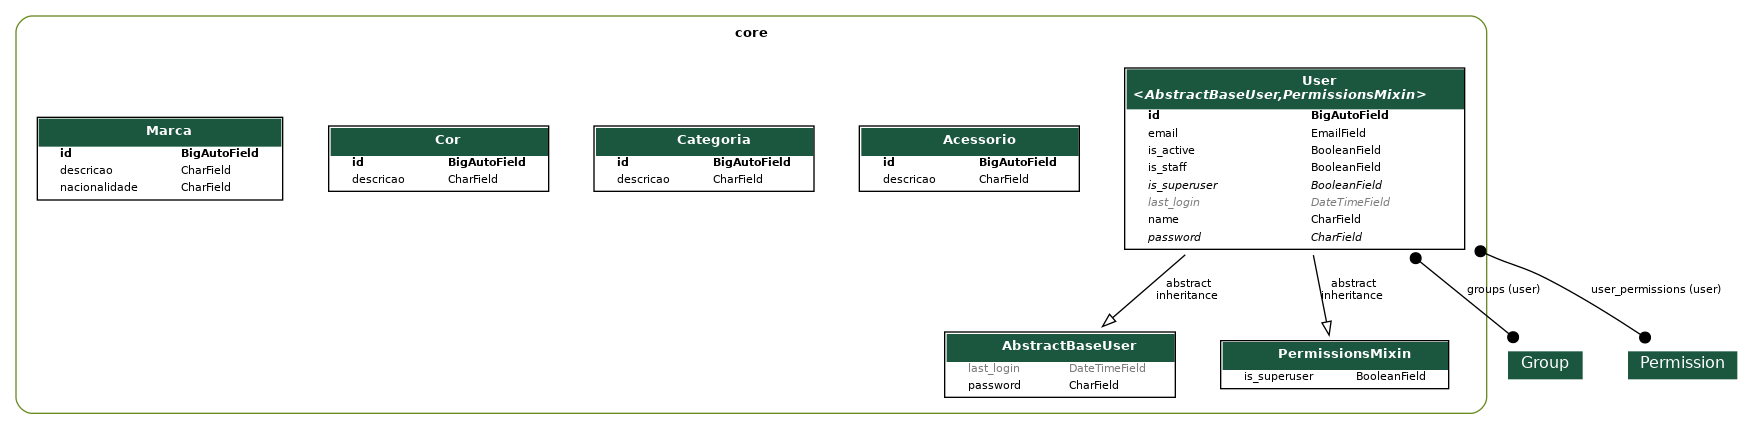
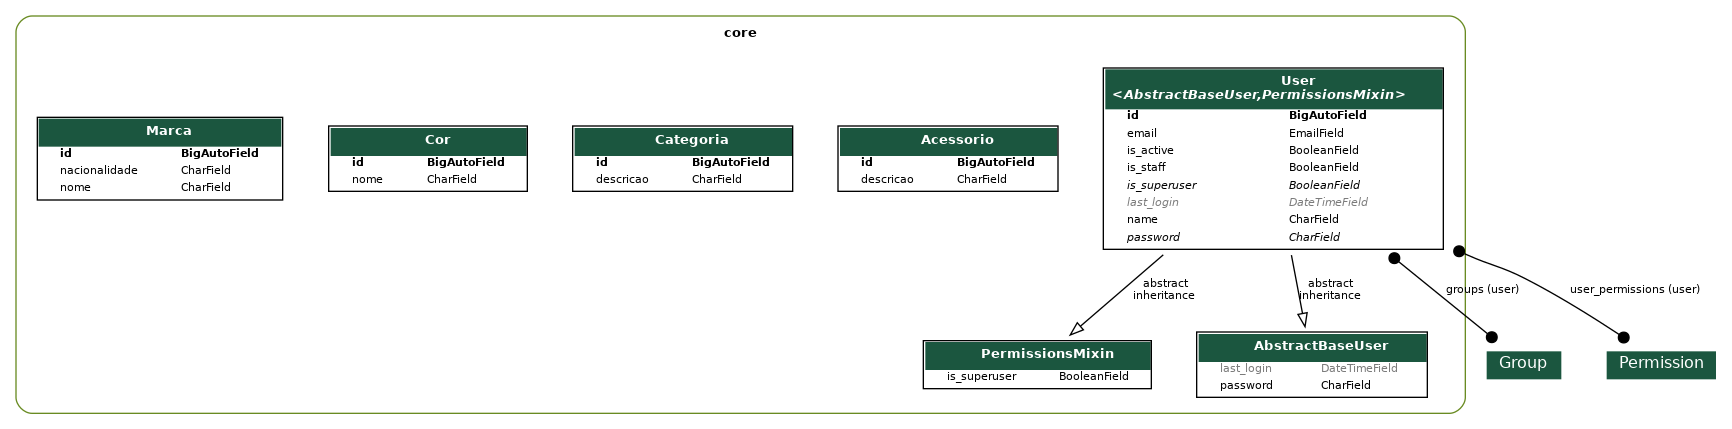
Rename campos marca and cor

diff --git a/core/migrations/0003_rename_descricao_cor_nome_and_more.py b/core/migrations/0003_rename_descricao_cor_nome_and_more.py
@@ -1,0 +1,23 @@
+# Generated by Django 5.0.2 on 2024-04-02 18:45
+
+from django.db import migrations
+
+
+class Migration(migrations.Migration):
+
+    dependencies = [
+        ("core", "0002_acessorio_categoria_cor_marca"),
+    ]
+
+    operations = [
+        migrations.RenameField(
+            model_name="cor",
+            old_name="descricao",
+            new_name="nome",
+        ),
+        migrations.RenameField(
+            model_name="marca",
+            old_name="descricao",
+            new_name="nome",
+        ),
+    ]

diff --git a/core/models/marca.py b/core/models/marca.py
@@ -1,9 +1,9 @@
 from django.db import models 
 
 class Marca(models.Model):
-    descricao = models.CharField(max_length=50)
+    nome = models.CharField(max_length=50)
     nacionalidade = models.CharField(max_length=50, null=True)
 
 
     def __str__(self):
-        return f"{self.descricao.upper()} ({self.id})"
+        return f"{self.nome.upper()} ({self.id})"

diff --git a/core/models/cor.py b/core/models/cor.py
@@ -1,7 +1,7 @@
 from django.db import models 
 
 class Cor(models.Model):
-    descricao = models.CharField(max_length=100)
+    nome = models.CharField(max_length=100)
 
     def __str__(self):
-        return f"{self.descricao} ({self.id})"
+        return f"{self.nome} ({self.id})"
